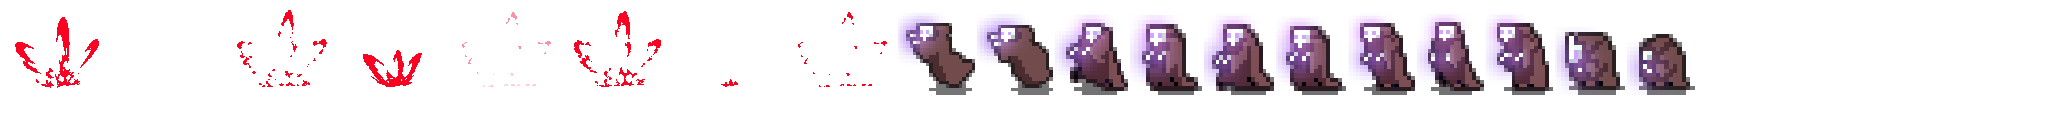
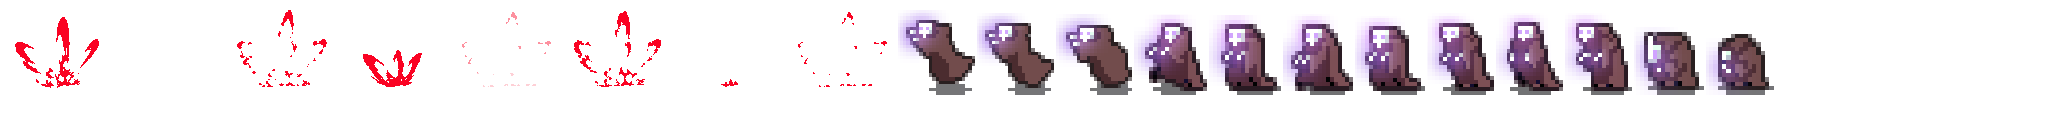
make player's attack slower

Changed region(s): [[0.4375, 0.125, 0.875, 0.75]]

diff --git a/core/src/btck/com/model/entity/player/ghost/DashAttack.java b/core/src/btck/com/model/entity/player/ghost/DashAttack.java
@@ -14,7 +14,7 @@ import screens.IngameScreen;
 
 public class DashAttack extends Attack {
 
-    final int DASH_SPEED = 600;
+    final int DASH_SPEED = 450;
 
     float attackX, attackY;
 
@@ -43,12 +43,14 @@ public class DashAttack extends Attack {
     public void update(float statetime) {}
 
     public void addHitEntity(Entity entity){
-        updateHitbox();
-        if(hitEntities.contains(entity, false)) return;
-        entity.takeDamage(this.currentDamage);
-        if(currentDamage > 0) IngameScreen.addTopEffect(new Slice(entity.getX() - 125, entity.getY() + entity.getHeight() / 2, owner.getAngle(), SLICE_COLOR.RED));
-        if(entity.isDead()) ((Player) owner).currentExp += ((Enemy)entity).exp;
-        hitEntities.add(entity);
+        if(animation.getKeyFrameIndex(owner.getStatetime()) < 6){
+            updateHitbox();
+            if(hitEntities.contains(entity, false)) return;
+            entity.takeDamage(this.currentDamage);
+            if(currentDamage > 0) IngameScreen.addTopEffect(new Slice(entity.getX() - 125, entity.getY() + entity.getHeight() / 2, owner.getAngle(), SLICE_COLOR.RED));
+            if(entity.isDead()) ((Player) owner).currentExp += ((Enemy)entity).exp;
+            hitEntities.add(entity);
+        }
     }
 
     @Override

diff --git a/core/src/btck/com/model/entity/enemy/knight/EarthAttack.java b/core/src/btck/com/model/entity/enemy/knight/EarthAttack.java
@@ -3,9 +3,12 @@ package btck.com.model.entity.enemy.knight;
 import btck.com.controller.attack.Attack;
 import btck.com.controller.attack.DEAL_DAMAGE_TIME;
 import btck.com.model.entity.Entity;
+import btck.com.view.effect.SLICE_COLOR;
+import btck.com.view.effect.Slice;
 import com.badlogic.gdx.graphics.g2d.Animation;
 import com.badlogic.gdx.graphics.g2d.TextureRegion;
 import com.badlogic.gdx.math.Rectangle;
+import screens.IngameScreen;
 
 public class EarthAttack extends Attack {
 
@@ -34,6 +37,7 @@ public class EarthAttack extends Attack {
     public void addHitEntity(Entity entity) {
         if(hitEntities.contains(entity, false)) return;
         if(animation.getKeyFrameIndex(owner.getStatetime()) >= frameToDealDamage[0]){
+            IngameScreen.addTopEffect(new Slice(entity.getX() - 125, entity.getY() + entity.getHeight() / 2, 45, SLICE_COLOR.WHITE));
             hitEntities.add(entity);
             entity.takeDamage(this.currentDamage);
         }
